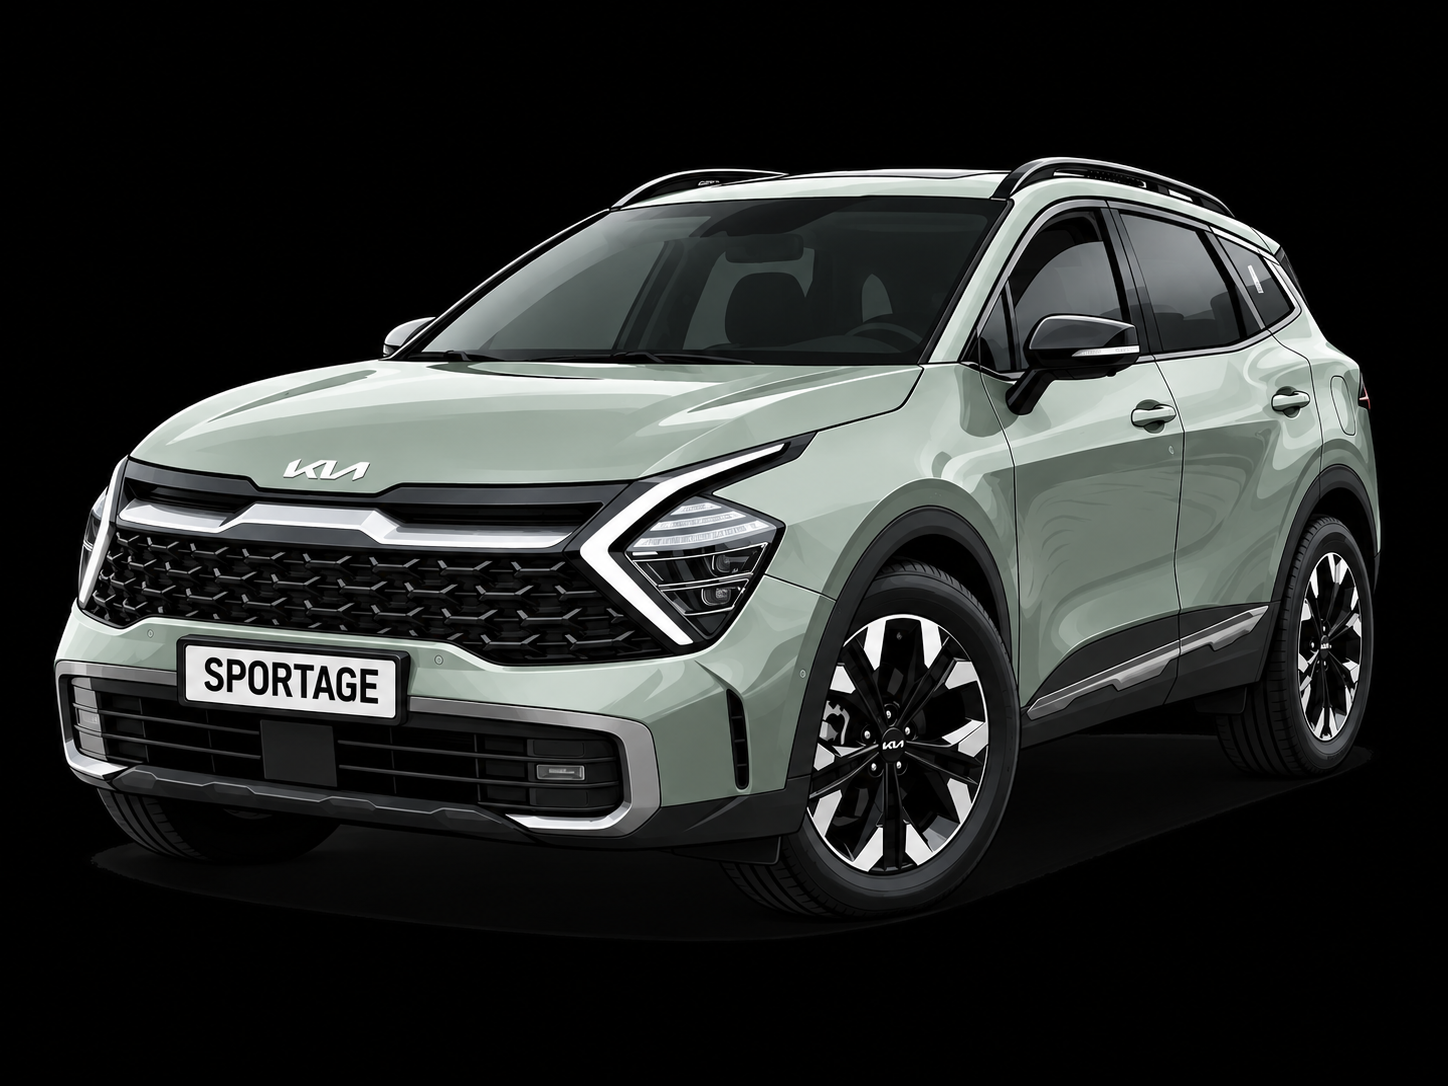
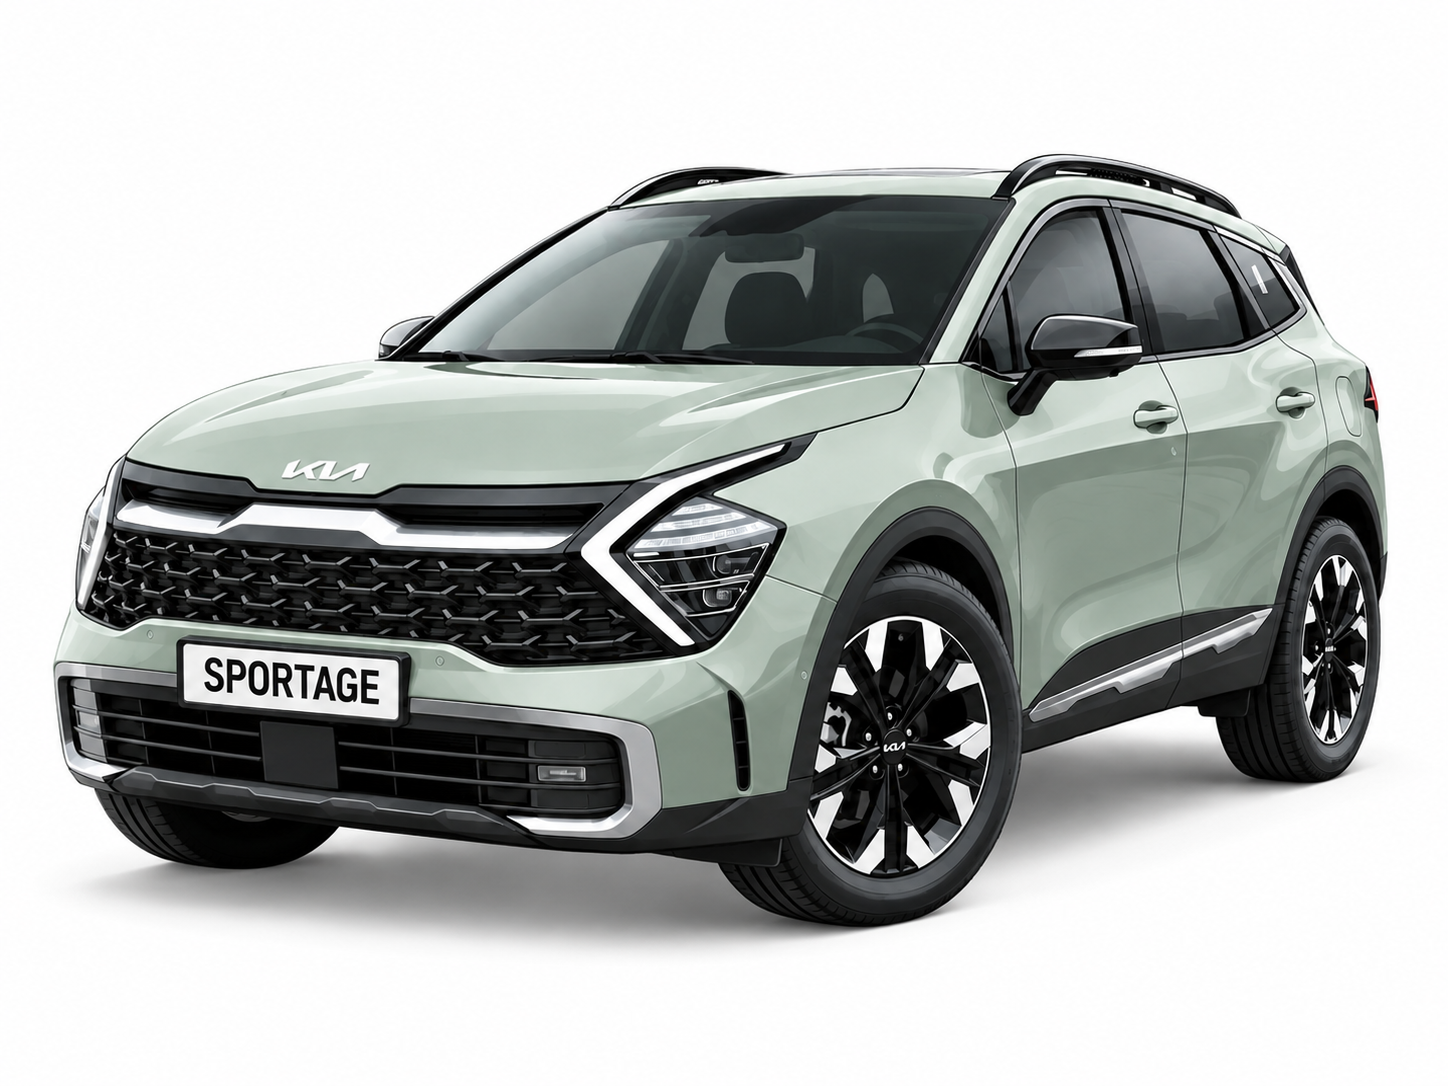
메인페이지 리뉴얼

diff --git a/app/page.tsx b/app/page.tsx
@@ -42,11 +42,11 @@ export default function Home() {
               </div>
               <div className="info-line">
                 <span className="title">연식</span>
-                <span className="content">2017년식</span>
+                <span className="content">2024년식</span>
               </div>
               <div className="info-line">
                 <span className="title">주행거리</span>
-                <span className="content">300,000km</span>
+                <span className="content">13,000km</span>
               </div>
             </div>
             <Image className="car-icon" src={car} alt="car icon" />
@@ -54,10 +54,10 @@ export default function Home() {
           <div className="chart-box">
             <div>
               <span>
-                내차 <strong>중고차 수출</strong> 예상 시세
+                내 차 <strong>중고차 수출</strong> 예상 시세
               </span>
               <br />
-              <span className="price">1000</span>
+              <span className="price">3600</span>
               <span>만원</span>
             </div>
             <ChartCanvas />
@@ -137,26 +137,17 @@ export default function Home() {
           <div className="review-card">
             <h5>중고차 구매</h5>
             <p>
-              "너무 친절하게 잘해주셨어요
-              <br />
-              블박 하이패스 오일정비까지 다해주시고
-              <br />
-              가격도 너무 합리적으로 잘해주셨어요
-              <br />
-              주변에 추천도 꼭 드릴게요"
+              "너무 친절하게 잘해주셨어요 블박 하이패스 오일정비까지 다해주시고
+              가격도 너무 합리적으로 잘해주셨어요 주변에 추천도 꼭 드릴게요"
             </p>
             <span>sso****고객님</span>
           </div>
           <div className="review-card">
             <h5>중고차 수출</h5>
             <p>
-              "제 첫 차를 떠나보내는 것이라 마음이 많이 복잡했는데
-              <br />
-              주실장님께서 직접 찾아와 시간에 맞추어 잘 안내해주시고
-              <br />
-              적절한 사유와 가격을 제시해주셔서
-              <br />
-              좋은 추억으로 소중했던 차를 떠나보냈습니다"
+              "제 첫 차를 떠나보내는 것이라 마음이 많이 복잡했는데 주실장님께서
+              직접 찾아와 시간에 맞추어 잘 안내해주시고 적절한 사유와 가격을
+              제시해주셔서 좋은 추억으로 소중했던 차를 떠나보냈습니다"
             </p>
             <span>won****고객님</span>
           </div>
@@ -164,14 +155,9 @@ export default function Home() {
             <h5>폐차</h5>
             <p>
               "차 수리비가 많이 나오면서 중고로 팔지, 수출을 보낼지, 폐차 진행을
-              해야될 지
-              <br />
-              고민이 많았는데 사장님께서 친절하게 잘 설명해주셔서
-              <br />
-              고민 끝에 폐차 진행하고 왔습니다.
-              <br />
-              폐차가 처음이긴 하지만 평택 근교에 거주하시는 분들은 무조건 여기
-              방문하시면 될 거 같습니다!!"
+              해야될 지 고민이 많았는데 사장님께서 친절하게 잘 설명해주셔서 고민
+              끝에 폐차 진행하고 왔습니다. 폐차가 처음이긴 하지만 평택 근교에
+              거주하시는 분들은 무조건 여기 방문하시면 될 거 같습니다!!"
             </p>
             <span>lk****고객님</span>
           </div>

diff --git a/app/globals.css b/app/globals.css
@@ -412,7 +412,7 @@ main {
 .sec5 {
   padding: 0 16% 0 16%;
   height: auto;
-  background-color: #72b866;
+  background-color: white;
   color: black;
   display: flex;
   flex-direction: column;
@@ -424,10 +424,15 @@ main {
   justify-content: space-between;
   align-items: center;
 }
+.sec5 h3 {
+  font-size: 24px;
+}
 .sec5 h5 {
   color: #38832f;
 }
 .sec5 .review-card {
+  display: flex;
+  flex-direction: column;
   background-color: #fff;
   border: 1px solid #eeeeee;
   border-radius: 18px;

diff --git a/components/chart.tsx b/components/chart.tsx
@@ -15,7 +15,7 @@ export default function ChartCanvas() {
           labels: ["폐차", "국내매매", "해외수출"],
           datasets: [
             {
-              data: [200, 800, 1000],
+              data: [200, 3200, 3600],
               backgroundColor: [
                 "rgb(108, 117, 125)",
                 "rgb(108, 117, 125)",
